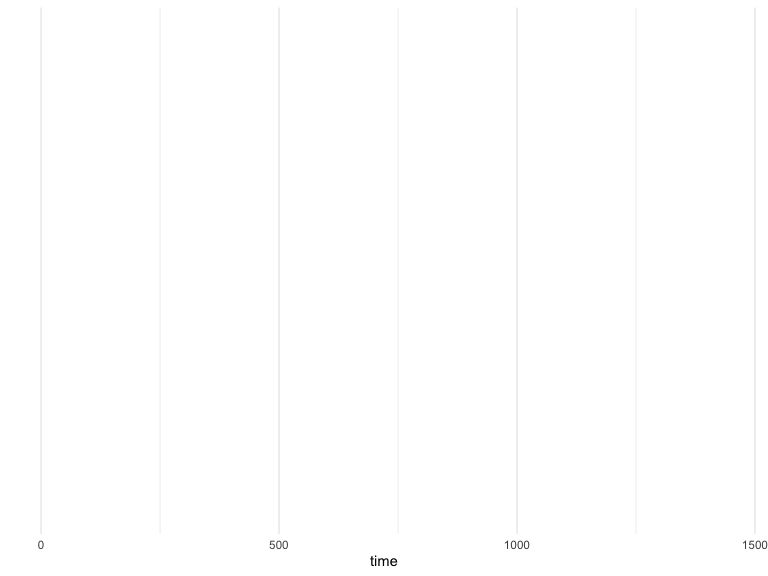
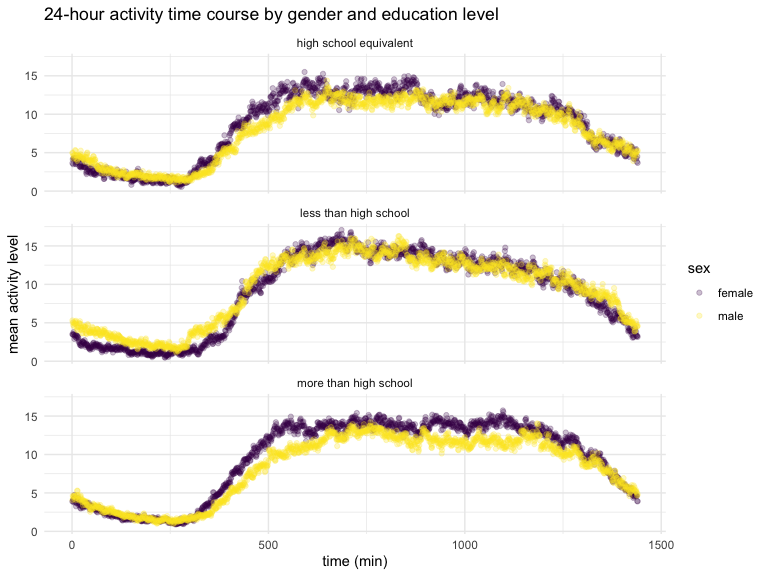
making last plot, fixing some coding errors

diff --git a/p8105_hw3_nn2477.md b/p8105_hw3_nn2477.md
@@ -380,7 +380,22 @@ time_course_data <- total_activity_df %>%
     ## `.groups` argument.
 
 ``` r
-ggplot(time_course_data, aes(x = time, y = ))
+ggplot(time_course_data, aes(x = time, y = mean, color = sex)) + 
+  geom_point(alpha = .25, mean = .1) + 
+  facet_wrap(. ~ education, ncol = 1) + 
+  labs(
+    title = "24-hour activity time course by gender and education level",
+    x = "time (min)",
+    y = "mean activity level"
+  ) +
+  theme_minimal()
 ```
 
 <img src="p8105_hw3_nn2477_files/figure-gfm/unnamed-chunk-18-1.png" width="90%" />
+
+for all three education categories in both genders, the mean physical
+activity level dips before it sharply increased (around morning).
+Similarly, the mean physical activity level decreased after midday in
+all 3 categories for both male and female. the “less than high school”
+education category appears to have the highest mean physical activity
+levels.
